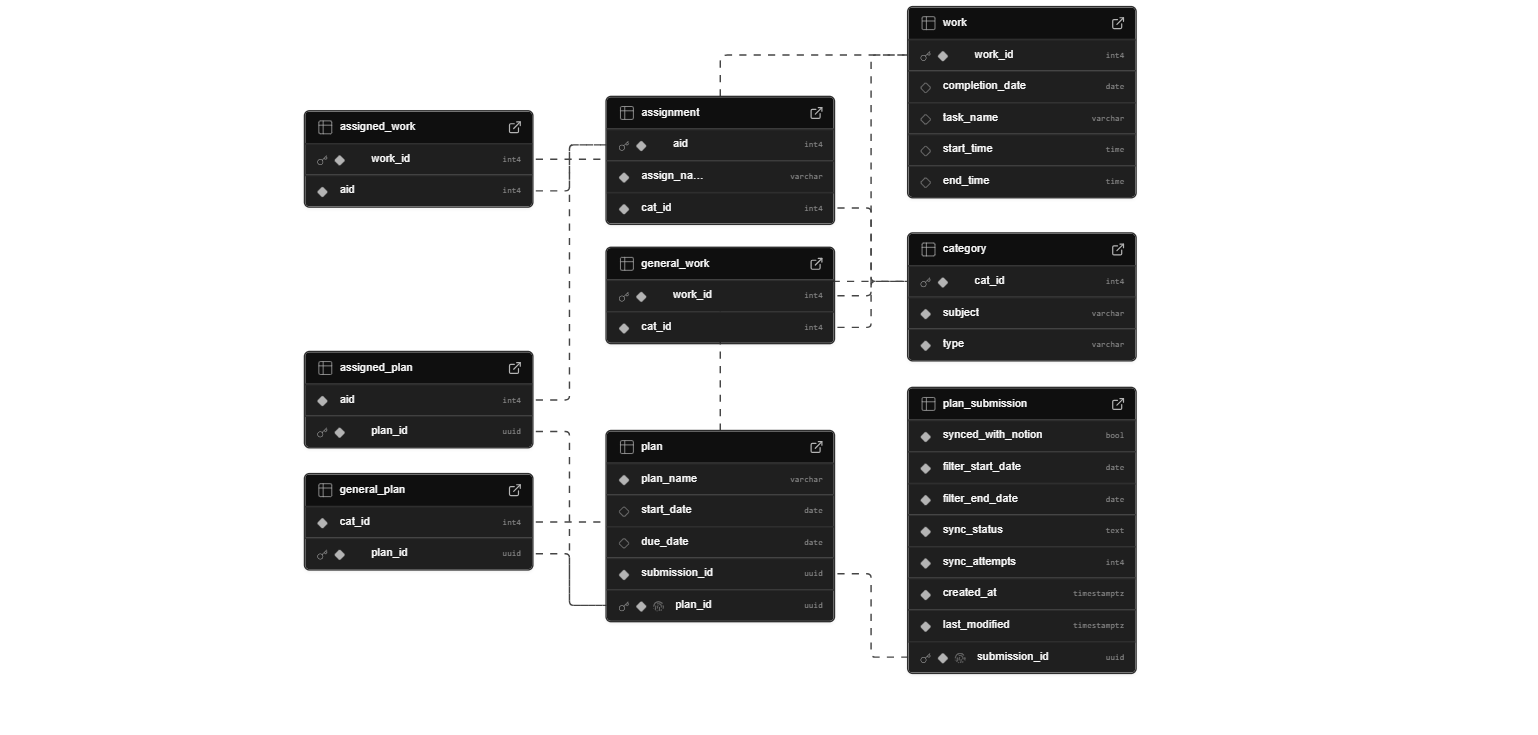
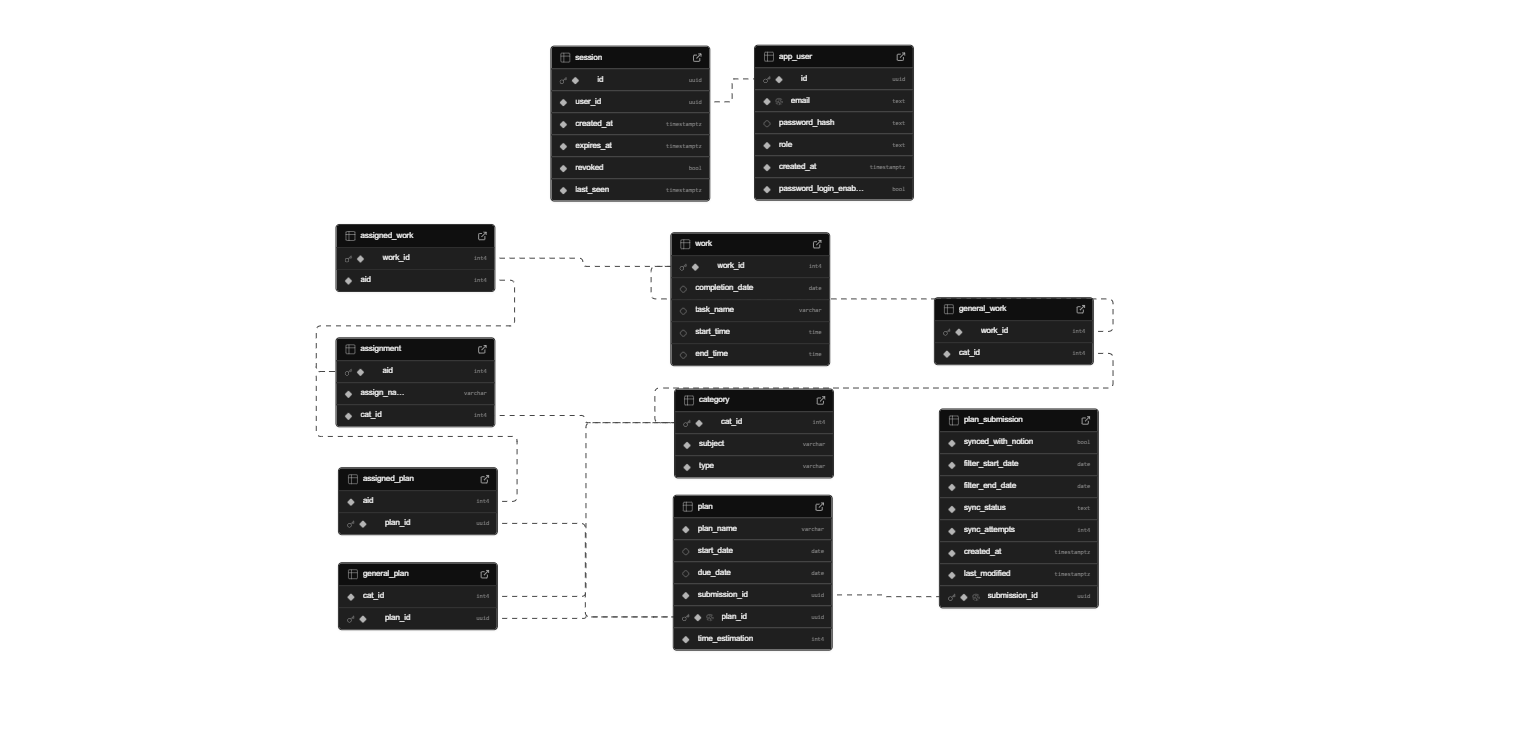
authentication code + docs almost completely updated

Changed region(s): [[0.1873, 0.0, 0.749, 0.9279]]

diff --git a/project_journal/pull_requests/pr7_security.md b/project_journal/pull_requests/pr7_security.md
@@ -1,0 +1,150 @@
+# 🧾 Overview
+This PR focused on implementing a role-based authentication system to help protect my assets/systems when redeploying the app for public usage.  There is now a login button that triggers a dialog popup form where the user can enter in their email/password info and submit their details for an authentication attempt. The users email address and password correspond to a user record that has a specified role: `guest` or `owner`. Upon successful authentication, the mode will change to reflect the user's role alongside a mode display. The frontend was also reworked a little bit to make managing configuration easier via a context object shared through the context API. Additionally, flask routes were implemented to enforce sessions and the db was updated to manage sessions and users. Diagraming was done to design the login/logout process, session lifecycle, and role-based access. There was some additional diagramming done for sending/accepting invites but this feature was not implemented. Lastly, prep for redeployment was completed to expedite this process.
+
+---
+
+## 🛠 Changes
+### ✅ Created New Files
+- `/project_management/diagrams/login_swimlane.png`: describes the cross-system process of logging in
+- `/project_management/diagrams/logout_swimlane.png`: describes the cross-system process of logging out
+- `/project_management/diagrams/rbac_matrix.png`: the permission structure spread across groups 'owner', 'guest', and 'visitor'
+- `/project_management/diagrams/session_lifecycle.png`: describes the cookie/session journey from: logging in to logging out/expiring
+- `/project_journal/pull_requests/pr7_security.md`: pr request documentation for the authentication feature
+- `/project_journal/backlog/sec_setup.md`: backlog item doc for setting up security (implementing the design)
+- `/project_journal/backlog/sec_design.md`: backlog item doc for creating the security design and learning more security concepts
+- `/project_journal/standup/logs/sprint12_standups.md`: standups for sprint 12
+- `/src/backend/.env`: deleted previous env file and recreated this one, has non secret local-testing variables
+- `/src/backend/.env.prod`: deleted previous env file, recreated this one to store vars for me to easily paste when I deploy to prod
+- `/src/backend/app/auth_utils.py`: utility cake decorators for enforcing valid cookies
+- `/src/backend/app/clients.py`: functions that retrieve objects for accessing the supabase api and for attaching headers onto notion requests
+- `/src/backend/docker-compose.yml`: messing around with docker
+- `/src/backend/Dockerfile`: containerizes the backend using gunicorn to launch the web server
+- `/src/backend/.dockerignore`: files to ignore when containerizing backend app
+- `/src/frontend/src/contexts/AppProviders.jsx`: Combined all the context providers into a singular provider to make management of contexts easier
+- `/src/frontend/src/contexts/AuthContext.jsx`: Context for managing sessions and role based access
+- `/src/frontend/src/contexts/ConfigContext.jsx`: Context that provides a config object that contains url routes to centralize env management
+- `/src/frontend/src/contexts/modeConfig.js`: functions that help determine permissions based on the role of the currently logged in user
+- `/src/frontend/src/utils/config.js`: functions that help manage or return a config object that resolves env variables in central area, utilized by ConfigContext
+- `/src/frontend/src/utils/modeUtils.js`: helper functions used to make mock/real functions for connectionTest, retrieveStats, and submitPlans
+- `/src/frontend/src/utils/resolveUser.js`: simple helper function used to return only "owner", "guest" and "visitor" to lower risk of errors when accessing the config object
+- `/src/frontend/src/components/AuthenticationSystem/AuthenticationSystem.jsx`: integrates the login/logout buttons, input modal, and mode display (showing different components based on who's logged in)
+- `/src/frontend/src/components/AuthenticationSystem/LoginModal.jsx`: Popup form spawned when the login button is pressed used to collect login credentials
+- `/src/frontend/src/components/AuthenticationSystem/LogoutButton.jsx`: Button that revokes the current session and turning the current mode to 'visitor'
+- `/src/frontend/src/components/AuthenticationSystem/ModeDisplay.jsx`: Displays the current mode ("owner"|"guest"|"visitor")
+- `/src/frontend/src/components/AuthenticationSystem/PasswordField.jsx`: Custom component added to the LoginModal so the input field had a toggleable "eye" icon to hide/show inputted text
+- `/src/frontend/src/components/AuthenticationSystem/login.js`: function that attempts to login the user launched when the LoginModal submission button is clicked
+- `/src/frontend/src/components/AuthenticationSystem/logout.js`: function that attempts to logout the user by revoking current access
+- `/src/frontend/src/components/ui/dialog.jsx`: shadcn component for dialog box used to gather user credentials when logging in
+
+### 🔧 Modified Files
+- `/.gitignore`: appended some more files to ignore
+- `/README.md`: Removed the "demo"/"full" mode related sections, updated installation & usage steps, project structure, and more
+- `/project_management/specs/design.md`: added security feature diagrams
+- `/project_management/specs/reqs.md`: added security feature requirements
+- `/project_management/specs/user-stories.md`: added new security-based user stories
+- `/project_management/diagrams/submission_swimlane.png`: fixed some small issues with arrows and text
+- `/src/backend/.env.local`: added new private variables for authentication
+- `/src/backend/requirements.txt`: added gunnicorn for prod level web server management to host the flask api, and asgiref (but not sure if using it?)
+- `/src/backend/run.py`: removed some of the code added for "demo" and "full" mode, returned it to its simple form, just runs the flask server
+- `/src/backend/app/__init__.py`: removed the "demo" and "full" mode code
+- `/src/backend/app/routes.py`: applied authentication decorators to protected routes so a valid session is required
+- `/src/database/db_setup.sql`: added three queries for creating two new tables (session and app_user) and an index for authentication purposes
+- `/src/database/row_security.sql`: added row security to the new tables
+- `/src/frontend/package.json`: deleted some of the scripts related to "demo"/"full" modes and "start" -- launches both frontend and backend scripts
+- `/src/frontend/package-lock.json`: added new dependencies from shadcn for the login dialog popup
+- `/src/frontend/.env`: added auth env variables
+- `/src/frontend/src/App.jsx`: integrated auth context and config context, removed setupApp, made the connectionTest version launched (real/mock) role & permission based
+- `/src/frontend/src/contexts/ProcessingContext.jsx`: integrated auth and config context, launches permission based retrieveStat function (real/dummy)
+- `/src/frontend/src/contexts/TaskContext.jsx`: added auth and config context, added permission based task loading (real-empty, mock-sample data)
+- `/src/frontend/src/utils/connectionTest.js`: replaced parameter with config object to integrate config context
+- `/src/frontend/src/utils/persistentFetch.js`: ensured `credentials: "include"` in fetch requests so cookies can be appended
+- `/src/frontend/src/utils/retrieveStats.js`: reworked parameters to integrate the config object
+- `/src/frontend/src/components/SubmissionButton/SubmissionButton.jsx`: removed the confusing ChatGPT useRef code, also made submission function permission based (real/mock)
+
+---
+## 🔗 Context
+This covers the following backlog items:
+- `Security Setup`: Implement the features outlined in the `Security Design` backlog item below so there is some protections set in place for deployment
+- `Security Design`: Create diagrams outlining the design for logging in, logging out, Role based access definition, and the session lifecycle. Additionally, review/learn authentication/security concepts with three quizzes and update supporting documentation (mvs, design, etc)
+---
+
+## 🧪 Testing
+
+Only rough conducting was implemented, no frameworks used. More thorough and official testing will be conducted later if possible.
+
+---
+
+## 🎥 Visuals
+### Security DB Design
+_Description:_ Shows the db schema for the newly created tables `session` and `app_user`. Sessions are for temporary instances that allow users to gain access based on their allowed permissions while app users are linked to sessions and determine the role and degree of permissions a person has. 
+
+![db_auth](https://github.com/user-attachments/assets/e65b2976-7bd6-4501-b60b-d210349c2763)
+
+### Session Lifecycle
+_Description:_ State diagram that describes the session lifecycle including the creation, expiration, and revocation of access for a user.
+
+![session_life](https://github.com/user-attachments/assets/09196ef9-046a-4bb8-b2d3-69b92bf1dd46)
+
+### Login Process
+_Description:_ Swimlane diagram used to show the cross-system process of a user authenticating into the system
+
+![login_swimlane](https://github.com/user-attachments/assets/604868b8-11a6-4f6e-8493-2ba37da72e3c)
+
+### Login Modal
+_Description:_ The popup component used to collect login credentials from the user and to attempt authentication. Created using shadcn dialog component.
+
+![login_modal](https://github.com/user-attachments/assets/6b01b68a-83f4-40f1-bc0d-57019b66c924)
+
+### Login Demo
+_Description:_ Shows an instance of the login process: person clicks the login button, dialog popup spawns, user inputs the wrong credentials, submit is clicked, loading toast is launched, toast is resolved to show an error, user inputs the correct credentials, loading toast is launched, toast resolves to show success, visitor modal updates to "guest"
+
+![login_demo](https://github.com/user-attachments/assets/f3f1042f-7417-48de-8f83-0732d49db8f2)
+
+### Logout Process
+_Description:_ Swimlane diagram used to show the cross-system process of a user logging out of the system
+
+![logout_swimlane](https://github.com/user-attachments/assets/8297325e-a057-45c5-b9b1-1c936d48e985)
+
+### Logout Button
+_Description:_ Simple logout button with a logout api requesting function attached. Included for thoroughness.
+
+![logout_button](https://github.com/user-attachments/assets/8abce149-650c-4158-8a64-21d912900e31)
+
+### Logout Demo
+_Description:_ Shows an instance of the logout process: user clicks logout button, loading toast spawns and resolves to success, mode display updates to 'visitor' which is the role of a logged out user.
+
+![logout_demo](https://github.com/user-attachments/assets/322db104-bf28-4fb2-a804-d05f1d533215)
+
+### RBAC Matrix
+_Description:_ Shows the permissions allowed to the three user roles: "owner" (most permissions), "guest" (almost all permissions aside from record storage), and "visitor" (least privileges, uses mock data/toasts)
+
+![rbac_mtrx](https://github.com/user-attachments/assets/9d12555e-e4a7-495e-9571-589c3f3582ea)
+
+### Mode Display
+_Description:_ Displays the role of the currently logged in user ("owner"|"guest"|"visitor")
+
+![mode_display](https://github.com/user-attachments/assets/f88b9aa5-3b24-4196-b38d-ab057ee68f4c)
+
+### Mock Processes
+_Description:_ Shows the mock plan submission, stat retrieval, and connection test launched with mock task data loaded when a logged out user visits the app (role is "visitor"). The mock stat retrieval function retrieves a static json object from the frontend that represents old, derived data. The connection test and plan submission functions simply wait on a timeout function and the mock task data is also retrieved from the frontend. These features are intended to give visitors to the app a brief idea of what's going on without granting them unnecessary functionality (ie they can't submit plan data to my Notion database or make API calls to retrieve and derive up-to-date stat values). This limits the usage of free tier deployment services I am utilizing which will improve the longevity of personal usage each month without paying additional fees.
+
+![mock_process](https://github.com/user-attachments/assets/4fa7203f-851a-428d-bdc6-fb1ba340a765)
+
+---
+
+## 👀 ChatGPT Review
+I'd appreciate feedback on:
+
+- 🧪 Test coverage
+- 🧱 Component or logic design
+- ⏱ Pacing of work
+- 🚧 Scope creep analysis
+- 🧠 Overall quality — score 1–10 with reasoning
+
+---
+
+## 📂 Branch Info
+- **Base branch**: `main`
+- **Feature branch**: `security`
+
+This merge accounts for two backlog items: `Security Design`, `Security Setup`

diff --git a/project_management/specs/reqs.md b/project_management/specs/reqs.md
@@ -111,11 +111,9 @@
 - R-5.11: Upon submission, the application shall display a temporary toast or visual indicator showing the API request status (e.g., Success or Failure).
 - R-5.12: The submission button shall implement a cooldown period immediately after activation to prevent duplicate or rapid submissions.
 - R-5.13: During the cooldown period, the button’s styling and interactivity shall change to indicate that submission is temporarily disabled.
-
 ### R-5.2 Visual Feedback and Real-Time Updates
 - R-5.14: The button’s default styling shall reflect the current overall plan feasibility status (e.g., green for Good, yellow/orange for Moderate, red for Poor).
 - R-5.15: The button styling shall update dynamically in real time whenever the overall plan feasibility status changes.
-
 ### R-5.3 Synchronization and Record Tracking
 - R-5.16: The connected database schema shall include a synchronization field (sync) for tracking plan submission records.
 - R-5.17: The sync field shall be initialized to False by default and updated to True only when the corresponding plan data has been successfully stored in both Notion and the database.
@@ -146,3 +144,55 @@
 ### R-7.4 Connectivity Health Check
 - R-7.40: On application launch, the system shall initiate a connectivity test targeting the Flask API, the database (Supabase), and the Notion API.
 - R-7.41: Each unreachable service shall be retried up to 3 times with a bounded backoff before being marked Failure.
+
+## R-8 Authentication
+### R-8.1 Login UI
+- R-8.10: There shall be a login button that spawns a dialog input form.
+- R-8.11: The dialog input form shall have two text input fields for email and password.
+- R-8.12: The password field shall have an "eye" toggle button that hides/shows the contents within the input field.
+- R-8.13: The dialog input form shall have a submit button that makes an authentication api call to the backend.
+- R-8.14: The dialog submission button shall be disabled after being clicked.
+- R-8.15: The dialog submission button shall be re-enabled once the api call is resolved.
+- R-8.16: The authentication api call shall spawn a loading toast while requests wait to be resolved.
+- R-8.17: The loading toast shall resolve to an error or success toast depending on authentication api call status.
+- R-8.18: If the authentication api call fails, change the label above the password input field with red text indicating the password didn't match.
+### R-8.2 Logout UI
+- R-8.20: There shall be a logout button that launches a logout authentication request when clicked.
+- R-8.21: Clicking the logout button shall launch a loading toast to reflect the logout request status.
+- R-8.22: The loading toast shall resolve to a success or fail toast depending on the logout request resolution.
+- R-8.23: The user shall have access revoked when successfully logged out
+### R-8.3 Authentication System
+- R-8.30: The authentication system shall be composed of the login modal, mode display, and logout button.
+- R-8.31: The login button shall only be displayed or visible when no user is currently logged in.
+- R-8.32: The logout button shall only be displayed or visible when a user is currently logged in.
+### R-8.4 Restricted API Routes
+- R-8.40: API routes for submitting plan data, launching health checks on connected systems, and retrieving real statistical data shall require a valid cookie to be processed.
+- R-8.41: API requests with an invalid cookie attached in the request shall be rejected.
+- R-8.42: Cookie's shall have an expiration time set upon creation.
+- R-8.43: Cookie's expiration time shall be updated to 24 hours past the most recently time of recorded activity.
+- R-8.44: A cookie is considered invalid if the current time recorded at the time of the api request exceeds the expiration time OR if the cookie has been revoked.
+### R-8.5 User & Session Storage
+- R-8.50: Users information shall be stored including their email, password hash, and creation time.
+- R-8.51: Password hashes will be stored instead of plaintext.
+- R-8.52: Authentication shall be tested by hashing the password input and comparing it with the password hash associated with the email input.
+
+## R-9 Role Based Access Control
+### R-9.1 Roles
+- R-9.10: There shall be three different roles, each with a different set of permissions: "owner", "guest", and "visitor"
+- R-9.11: The "owner" role shall have the capacity to submit plan records, retrieve real stats data, launch real tests checking if all systems are online, and populate the task table with empty tasks for easy entry
+- R-9.12: The "guest" role shall not be able to submit plan records or launch real connection tests but can access real stats data and will populate the task table with mock data 
+- R-9.13: The "visitor" role shall have access to mock plan submissions, mock connection tests, mock statistical data, and mock task data
+- R-9.14: Each application user record shall have an assigned role of either "guest" or "owner"
+- R-9.15: Unauthenticated users shall have a role of "visitor"
+### R-9.2 Mode Display
+- R-9.20: There shall be a text display that shows the current user's role.
+- R-9.21: The text display shall update whenever the role changes.
+- R-9.22: The styling of the display shall fit the overall theme of the application.
+### R-9.3 Mocks
+- R-9.30: The serving of mock vs real data shall depend on role permissions.
+- R-9.31: Fake or mock data shall be stored on the frontend for easy retrieval.
+- R-9.32: The following datasets have the potential to be served as mocks: task data, statistical data
+- R-9.33: The serving of mock vs real functions shall depend on role permissions.
+- R-9.34: Mock functions shall launch a loading toast followed by resolving to success
+- R-9.35: The message within the loading toast shall indicate function is being mocked.
+- R-9.36: The following functions have the potential to be mocked: statistical data retrieval, system health connection tests, and plan submission

diff --git a/project_management/specs/design.md b/project_management/specs/design.md
@@ -147,3 +147,60 @@ _Description:_ Demonstrates terminal outputs from curling the Flask stats API us
 _Description:_ Showcases an end-to-end test verifying the full stats retrieval workflow—from frontend request initiation to backend response and UI feedback—confirming that valid data updates visual elements and toast notifications as expected.
 
 ![feedback_e2e](https://github.com/user-attachments/assets/708ef933-3a19-484e-90b6-fac08093284f)
+
+## R-8 Authentication
+### Security DB Design (R-8.4, R-8.5)
+_Description:_ Shows the db schema for the newly created tables `session` and `app_user`. Sessions are for temporary instances that allow users to gain access based on their allowed permissions while app users are linked to sessions and determine the role and degree of permissions a person has. 
+
+![db_auth](https://github.com/user-attachments/assets/e65b2976-7bd6-4501-b60b-d210349c2763)
+
+### Session Lifecycle (R-8.3, R-8.4, R-8.5)
+_Description:_ State diagram that describes the session lifecycle including the creation, expiration, and revocation of access for a user.
+
+![session_life](https://github.com/user-attachments/assets/09196ef9-046a-4bb8-b2d3-69b92bf1dd46)
+
+### Login Process (R-8.1, R-8.3)
+_Description:_ Swimlane diagram used to show the cross-system process of a user authenticating into the system
+
+![login_swimlane](https://github.com/user-attachments/assets/604868b8-11a6-4f6e-8493-2ba37da72e3c)
+
+### Login Modal (R-8.1, R-8.3)
+_Description:_ The popup component used to collect login credentials from the user and to attempt authentication. Created using shadcn dialog component.
+
+![login_modal](https://github.com/user-attachments/assets/6b01b68a-83f4-40f1-bc0d-57019b66c924)
+
+### Login Demo (R-8.1, R-8.3)
+_Description:_ Shows an instance of the login process: person clicks the login button, dialog popup spawns, user inputs the wrong credentials, submit is clicked, loading toast is launched, toast is resolved to show an error, user inputs the correct credentials, loading toast is launched, toast resolves to show success, visitor modal updates to "guest"
+
+![login_demo](https://github.com/user-attachments/assets/f3f1042f-7417-48de-8f83-0732d49db8f2)
+
+### Logout Process (R-8.2, R-8.3)
+_Description:_ Swimlane diagram used to show the cross-system process of a user logging out of the system
+
+![logout_swimlane](https://github.com/user-attachments/assets/8297325e-a057-45c5-b9b1-1c936d48e985)
+
+### Logout Button (R-8.2, R-8.3)
+_Description:_ Simple logout button with a logout api requesting function attached. Included for thoroughness.
+
+![logout_button](https://github.com/user-attachments/assets/8abce149-650c-4158-8a64-21d912900e31)
+
+### Logout Demo (R-8.2, R-8.3)
+_Description:_ Shows an instance of the logout process: user clicks logout button, loading toast spawns and resolves to success, mode display updates to 'visitor' which is the role of a logged out user.
+
+![logout_demo](https://github.com/user-attachments/assets/322db104-bf28-4fb2-a804-d05f1d533215)
+
+## R-9 Role Based Access Control 
+### RBAC Matrix (R-9.1, R-9.2, R-9.3)
+_Description:_ Shows the permissions allowed to the three user roles: "owner" (most permissions), "guest" (almost all permissions aside from record storage), and "visitor" (least privileges, uses mock data/toasts)
+
+![rbac_mtrx](https://github.com/user-attachments/assets/9d12555e-e4a7-495e-9571-589c3f3582ea)
+
+### Mode Display (R-9.2)
+_Description:_ Displays the role of the currently logged in user ("owner"|"guest"|"visitor")
+
+![mode_display](https://github.com/user-attachments/assets/f88b9aa5-3b24-4196-b38d-ab057ee68f4c)
+
+### Mock Processes (R-9.3)
+_Description:_ Shows the mock plan submission, stat retrieval, and connection test launched with mock task data loaded when a logged out user visits the app (role is "visitor"). The mock stat retrieval function retrieves a static json object from the frontend that represents old, derived data. The connection test and plan submission functions simply wait on a timeout function and the mock task data is also retrieved from the frontend. These features are intended to give visitors to the app a brief idea of what's going on without granting them unnecessary functionality (ie they can't submit plan data to my Notion database or make API calls to retrieve and derive up-to-date stat values). This limits the usage of free tier deployment services I am utilizing which will improve the longevity of personal usage each month without paying additional fees.
+
+![mock_process](https://github.com/user-attachments/assets/4fa7203f-851a-428d-bdc6-fb1ba340a765)

diff --git a/project_journal/backlog/sec_design.md b/project_journal/backlog/sec_design.md
@@ -1,0 +1,20 @@
+# Security Setup
+
+## 📝 Task Overview
+* Sprint: #12
+* Dates: November 1 - Month day (2025)
+* Status: In Progress
+* Story Points: #
+* Dependencies:
+  * 
+* Task Description: 
+* Expected Outcome: 
+
+---
+
+## 🔧 Work
+
+### ✅ Subtasks
+
+
+### 📘 Definition of Done

diff --git a/project_journal/backlog/sec_setup.md b/project_journal/backlog/sec_setup.md
@@ -1,0 +1,20 @@
+# Security Setup
+
+## 📝 Task Overview
+* Sprint: #12
+* Dates: November 1 - Month day (2025)
+* Status: In Progress
+* Story Points: #
+* Dependencies:
+  * 
+* Task Description: 
+* Expected Outcome: 
+
+---
+
+## 🔧 Work
+
+### ✅ Subtasks
+
+
+### 📘 Definition of Done
